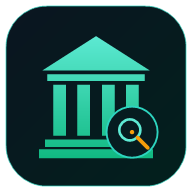
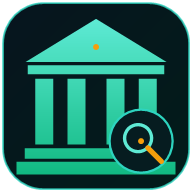
style: zvetseni rozmeru ikony chramu a lupy pro lepsi citelnost a vyplneni plochy na hlavnim panelu Windows

diff --git a/sw.js b/sw.js
@@ -1,5 +1,5 @@
 // BankApp Inspector Service Worker
-const CACHE_NAME = 'bankapp-inspector-v1';
+const CACHE_NAME = 'bankapp-inspector-v2';
 const STATIC_ASSETS = [
   './BankAppInspector.html',
   './manifest.json',
